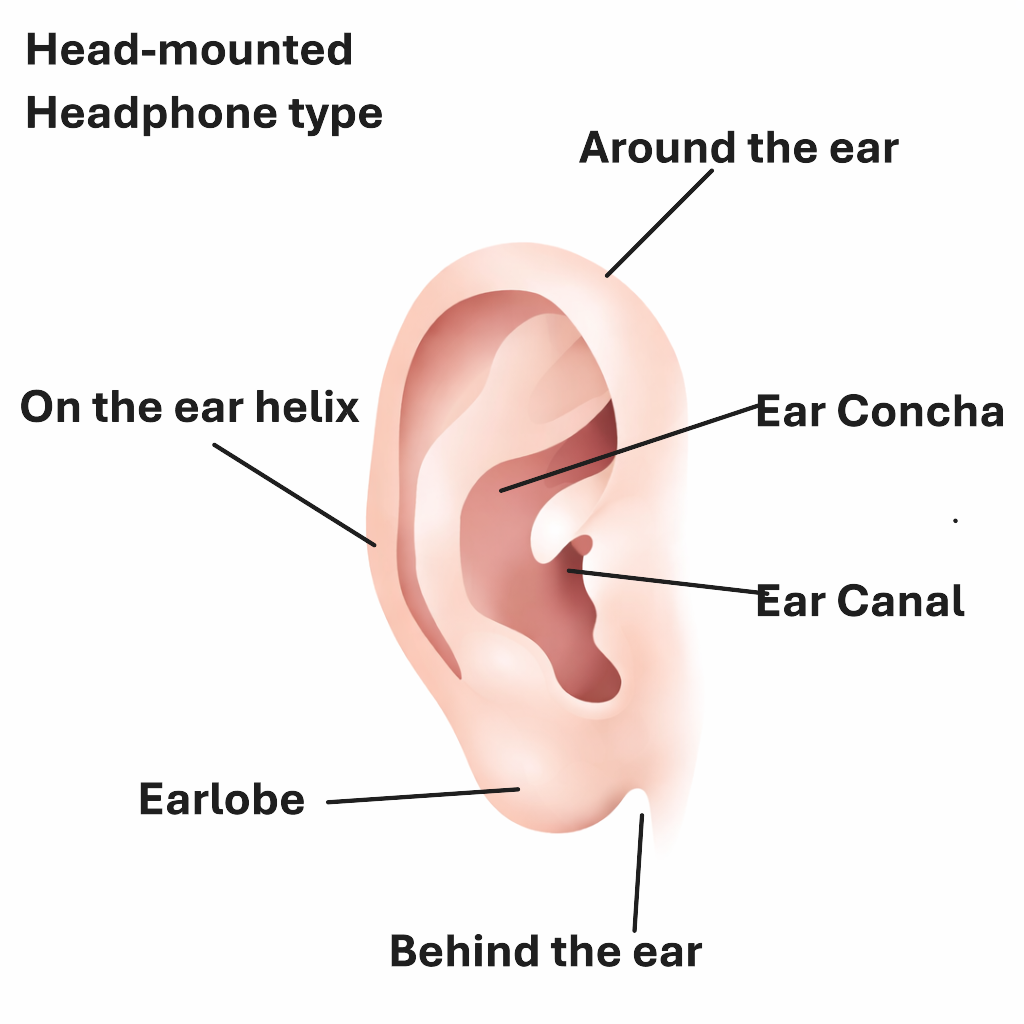
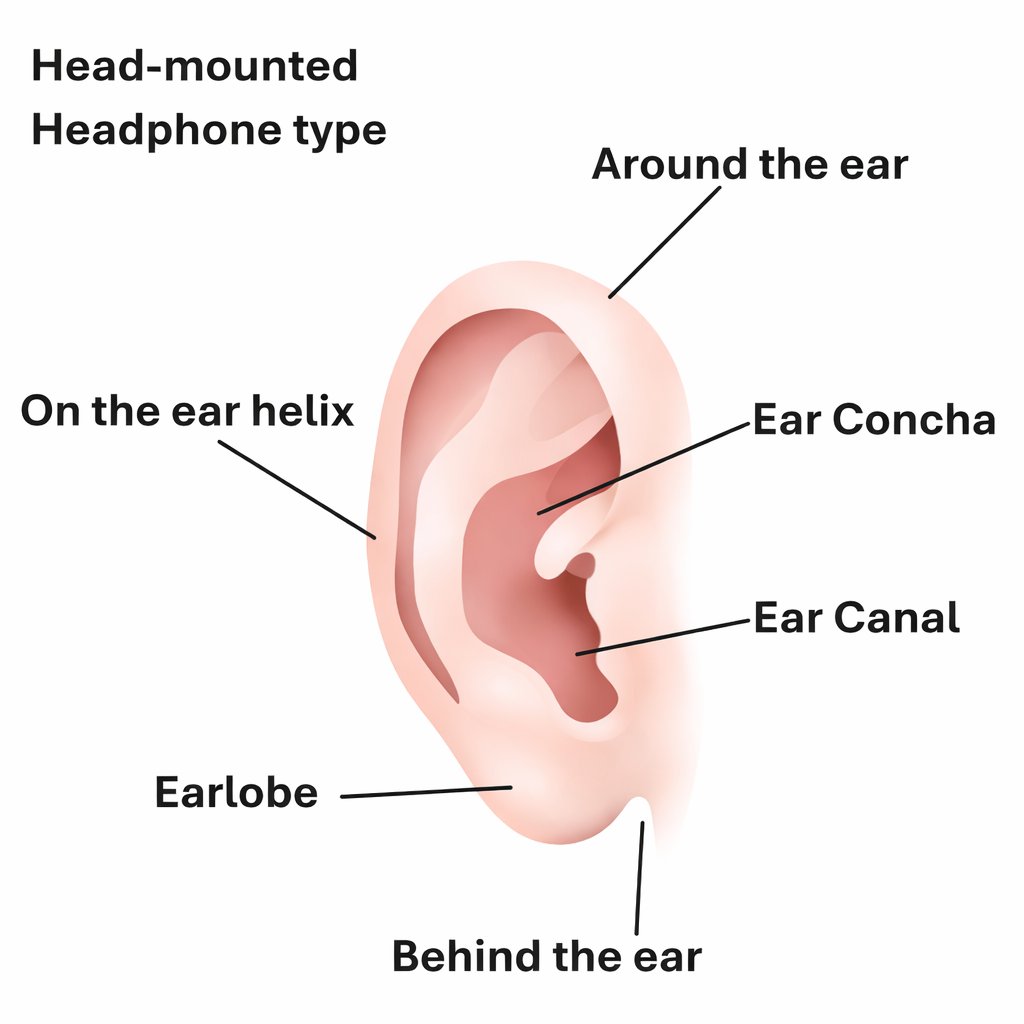
Improve sensor position view

diff --git a/static/styles/sensor-position.css b/static/styles/sensor-position.css
@@ -1,14 +1,28 @@
 #sensorPositionViewContainer {
   display: flex;
+  flex-wrap: wrap;
   gap: 24px;
   justify-content: center;
-  align-items: flex-start;      
+  align-items: flex-start;
+}
+
+#sensorPositionViewContainer.no-selection {
+  justify-content: center;
+}
+
+#sensorPositionViewContainer.no-selection #sensorPositionResults {
+  display: none;
+}
+
+#sensorPositionViewContainer.has-selection {
+  justify-content: center;
 }
 
 /* Fixed distance to the left */
 #earWrapper {
-  flex: 0 0 400px;              
-  width: 400px;
+  flex: 0 1 420px;
+  width: 100%;
+  max-width: 420px;
   position: relative;
 }
 
@@ -37,9 +51,9 @@
 }
 
 #sensorPositionResults {
-  flex: 0 0 520px;
-  width: 520px;
+  flex: 1 1 480px;
   max-width: 520px;
+  width: 100%;
 }
 
 #sensorPositionStudyDetail {
@@ -66,4 +80,21 @@
   max-height: 260px;      /* Control the height of related studies */
   overflow-y: auto;   
   margin-bottom: 12px;
+}
+
+#earArea {
+  display: flex;
+  flex-direction: column;
+  align-items: center;
+}
+
+#sensorPositionHint {
+  font-weight: 600;
+  font-size: 35px;
+  margin-bottom: 10px;
+  text-align: center;
+}
+
+#sensorPositionViewContainer.has-selection #sensorPositionHint {
+  display: none;
 }

diff --git a/templates/sensor-position.html b/templates/sensor-position.html
@@ -10,15 +10,23 @@
   <script id="sensorPositionData" type="application/json">
     {{ data | tojson }}
   </script>
+  
 
-  <div id="sensorPositionViewContainer">
-    <div id="earWrapper">
-      <img
-        id="earImage"
-        src="{{ url_for('static', filename='images/ear_sensor_map.png') }}"
-        alt="Ear Sensor Position Map"
-      />
-      <!-- sensor dots injected by JS -->
+
+  <div id="sensorPositionViewContainer" class="no-selection">
+    <div id="earArea">
+      <div id="sensorPositionHint">
+      Click a red dot on the ear to explore related studies.
+      </div>
+      <div id="earWrapper">
+        <img
+          id="earImage"
+          src="{{ url_for('static', filename='images/ear_sensor_map.png') }}"
+          alt="Ear Sensor Position Map"
+        />
+        <!-- sensor dots injected by JS -->
+        
+      </div>
     </div>
 
     <div id="sensorPositionResults">
